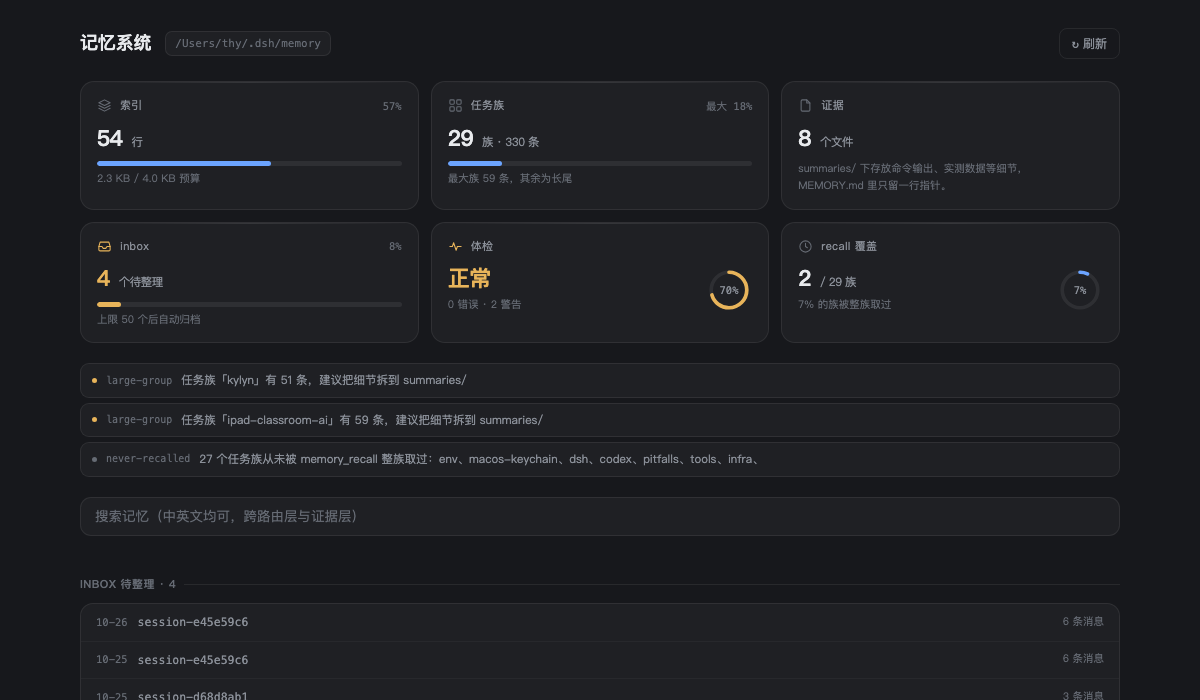
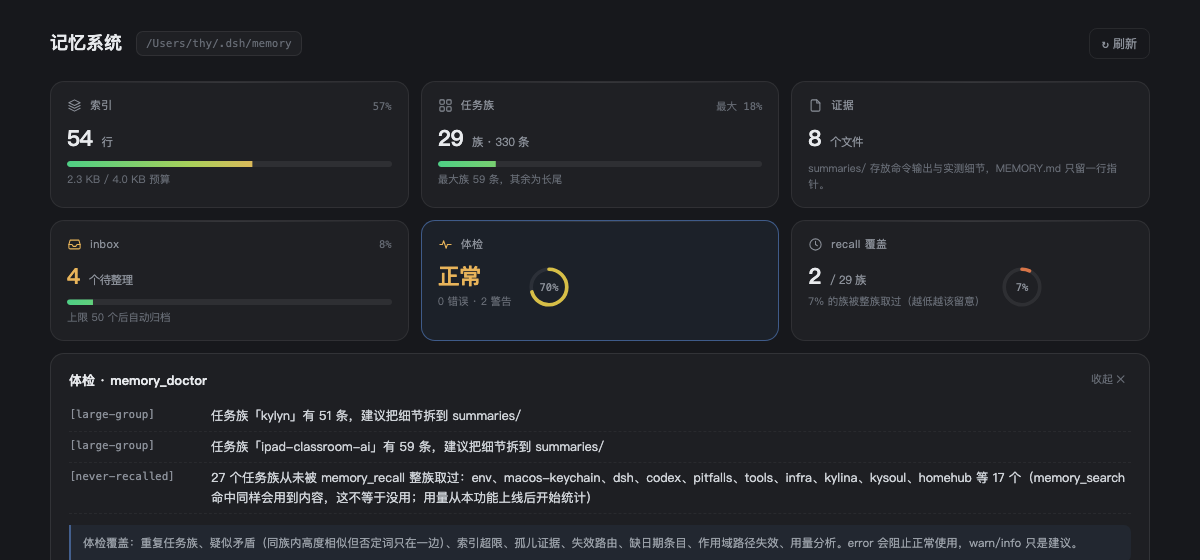
feat(v0.7.0): every stat card opens a detail panel
Each of the six cards is now clickable and expands a panel below the grid that
explains what the number means and what to do about it:
- index: budget math and what happens on overflow
- groups: top 10 by entry count, with the 50-entry split hint
- evidence: summaries/ file list with sizes
- inbox: candidate list and the review pipeline
- health: the full issue list (previously truncated to 6) plus check coverage
- recall: the never-recalled groups, why that is not the same as unused, and
  three concrete options
overview now also returns evidenceFiles, complete issues and usage.neverUsed.

diff --git a/lib/client.js b/lib/client.js
@@ -39,6 +39,19 @@ window.__ModuleLoader__.load({
       '.km-refresh{margin-left:auto;font-size:12px;color:#8b9099;border:1px solid rgba(255,255,255,.075);border-radius:8px;padding:5px 12px;cursor:pointer;user-select:none;}',
       '.km-refresh:hover{color:#e8eaed;border-color:rgba(255,255,255,.12);background:rgba(255,255,255,.035);}',
       '.km-cards{display:grid;grid-template-columns:repeat(3,minmax(0,1fr));gap:12px;margin-bottom:20px;}',
+      '.km-card.clickable{cursor:pointer;transition:border-color .15s,background .15s;}',
+      '.km-card.clickable:hover{border-color:rgba(255,255,255,.14);background:rgba(255,255,255,.055);}',
+      '.km-card.active{border-color:rgba(107,164,255,.45);background:rgba(107,164,255,.06);}',
+      '.km-detail{margin:-8px 0 20px;border:1px solid rgba(255,255,255,.09);border-radius:14px;background:rgba(255,255,255,.03);padding:15px 18px;}',
+      '.km-detail-head{display:flex;align-items:center;gap:8px;margin-bottom:10px;}',
+      '.km-detail-title{font-size:13px;font-weight:600;}',
+      '.km-detail-close{margin-left:auto;font-size:11px;color:#666b74;cursor:pointer;padding:2px 6px;border-radius:5px;}',
+      '.km-detail-close:hover{color:#e8eaed;background:rgba(255,255,255,.06);}',
+      '.km-d-row{display:flex;gap:12px;padding:5px 0;font-size:12.5px;border-bottom:1px dashed rgba(255,255,255,.05);}',
+      '.km-d-row:last-child{border-bottom:0;}',
+      '.km-d-key{font-family:ui-monospace,Menlo,monospace;font-size:11px;color:#8b9099;flex:none;min-width:130px;}',
+      '.km-d-val{color:#cfd3d8;flex:1;min-width:0;}',
+      '.km-d-note{font-size:11.5px;color:#9aa0a8;line-height:1.7;margin-top:11px;padding:9px 12px;background:rgba(107,164,255,.06);border-left:2px solid rgba(107,164,255,.45);border-radius:0 7px 7px 0;}',
       '.km-card{position:relative;background:rgba(255,255,255,.035);border:1px solid rgba(255,255,255,.075);border-radius:14px;padding:15px 16px 14px;overflow:hidden;}',
       '.km-card::after{content:"";position:absolute;inset:0 0 auto 0;height:1px;background:linear-gradient(90deg,transparent,rgba(255,255,255,.10),transparent);}',
       '.km-card-head{display:flex;align-items:center;gap:8px;margin-bottom:11px;}',
@@ -193,6 +206,8 @@ window.__ModuleLoader__.load({
       var detail = s5[0], setDetail = s5[1];
       var s6 = React.useState(0);
       var reloadAt = s6[0], setReloadAt = s6[1];
+      var s7 = React.useState(null);
+      var openCard = s7[0], setOpenCard = s7[1];
 
       React.useEffect(function () {
         var alive = true;
@@ -284,48 +299,47 @@ window.__ModuleLoader__.load({
       var recallPct = pctOf((data.usage && data.usage.used) || 0, (data.usage && data.usage.total) || 1);
       var healthPct = counts.error > 0 ? 30 : counts.warn > 0 ? 70 : 100;
 
+      function cardWrap(key, className, children) {
+        var active = openCard === key;
+        return h(
+          'div',
+          {
+            className: 'km-card clickable ' + (className || '') + (active ? ' active' : ''),
+            onClick: function () {
+              setOpenCard(active ? null : key);
+            },
+          },
+          children,
+        );
+      }
+
       var cards = h(
         'div',
         { className: 'km-cards' },
-        // 索引：进度条
-        h(
-          'div',
-          { className: 'km-card' },
+        cardWrap('index', '', [
           head('layers', '索引', indexPct.toFixed(0) + '%'),
           h('div', { className: 'km-card-value' }, data.index.lines, h('em', null, '行')),
           bar(indexPct),
           h('div', { className: 'km-card-label' }, kb(data.index.bytes) + ' / ' + kb(data.limits.maxIndexBytes) + ' 预算'),
-        ),
-        // 任务族：最大族占比条
-        h(
-          'div',
-          { className: 'km-card' },
+        ]),
+        cardWrap('groups', '', [
           head('grid', '任务族', '最大 ' + maxPct.toFixed(0) + '%'),
           h('div', { className: 'km-card-value' }, data.route.groups, h('em', null, '族 · ' + data.route.entries + ' 条')),
           bar(maxPct),
           h('div', { className: 'km-card-label' }, '最大族 ' + maxEntries + ' 条，其余为长尾'),
-        ),
-        // 证据：纯计数 + 说明
-        h(
-          'div',
-          { className: 'km-card' },
+        ]),
+        cardWrap('evidence', '', [
           head('file', '证据'),
           h('div', { className: 'km-card-value' }, data.evidence, h('em', null, '个文件')),
           h('div', { className: 'km-card-label', style: { marginTop: '10px' } }, 'summaries/ 存放命令输出与实测细节，MEMORY.md 只留一行指针。'),
-        ),
-        // inbox：进度条（上限 50）
-        h(
-          'div',
-          { className: 'km-card ' + (inbox.length > 0 ? 'warn' : '') },
+        ]),
+        cardWrap('inbox', inbox.length > 0 ? 'warn' : '', [
           head('inbox', 'inbox', inboxPct.toFixed(0) + '%'),
           h('div', { className: 'km-card-value' }, inbox.length, h('em', null, '个待整理')),
           bar(inboxPct),
           h('div', { className: 'km-card-label' }, '上限 50 个后自动归档'),
-        ),
-        // 体检：圆环
-        h(
-          'div',
-          { className: 'km-card ' + health },
+        ]),
+        cardWrap('health', health, [
           head('pulse', '体检'),
           h(
             'div',
@@ -338,11 +352,8 @@ window.__ModuleLoader__.load({
             ),
             ring(healthPct, healthPct.toFixed(0) + '%'),
           ),
-        ),
-        // recall 覆盖：圆环
-        h(
-          'div',
-          { className: 'km-card' },
+        ]),
+        cardWrap('recall', '', [
           head('activity', 'recall 覆盖'),
           h(
             'div',
@@ -360,8 +371,111 @@ window.__ModuleLoader__.load({
             ),
             ring(recallPct, recallPct.toFixed(0) + '%', true),
           ),
-        ),
+        ]),
       );
+
+      // ── 卡片详情：点开看「是什么、为什么、怎么办」────────────────────
+      var CARD_TITLES = {
+        index: '索引层 · memory_summary.md',
+        groups: '任务族 · MEMORY.md',
+        evidence: '证据层 · summaries/',
+        inbox: 'inbox · 自动捕获的候选',
+        health: '体检 · memory_doctor',
+        recall: 'recall 覆盖 · usage.json',
+      };
+      function detailRows(key) {
+        var rows = [];
+        var note = '';
+        if (key === 'index') {
+          var remain = Math.max(0, data.limits.maxIndexBytes - data.index.bytes);
+          rows = [
+            ['行数', data.index.lines + ' 行'],
+            ['当前占用', kb(data.index.bytes)],
+            ['预算上限', kb(data.limits.maxIndexBytes) + '（超出会被截断）'],
+            ['剩余空间', kb(remain)],
+          ];
+          note = '索引是每次会话都注入模型上下文的那段文字，所以它的每一字节都是「每轮成本」。写满了就该把细节下沉到 MEMORY.md 或 summaries/。';
+        } else if (key === 'groups') {
+          var sorted = (data.groups || []).slice().sort(function (a, b) {
+            return b.entries - a.entries;
+          });
+          rows = sorted.slice(0, 10).map(function (g) {
+            var scope = g.scope ? '  @' + String(g.scope).split('/').pop() : '';
+            return [g.slug, g.entries + ' 条' + scope];
+          });
+          if (sorted.length > 10) rows.push(['…', '另有 ' + (sorted.length - 10) + ' 个更小的族']);
+          note = '按条目数排序的前 10 个族。单族超过 50 条时体检会提示拆分——把细节挪到 summaries/，MEMORY.md 里只留一行指针。';
+        } else if (key === 'evidence') {
+          var files = data.evidenceFiles || [];
+          rows = files.length
+            ? files.map(function (f) {
+                return [f.name, kb(f.bytes)];
+              })
+            : [['—', '还没有证据文件']];
+          note = '证据层存原始材料：命令输出、实测数据、复现步骤。MEMORY.md 的条目用一行指针指过来，需要时才读。';
+        } else if (key === 'inbox') {
+          var items = data.inbox || [];
+          rows = items.length
+            ? items.map(function (it) {
+                var m = /^(\d{4}-\d{2}-\d{2})-(.+)\.md$/.exec(it.name || '');
+                var meta = it.meta || {};
+                return [m ? m[1] : it.name || '', 'session-' + (m ? m[2].replace(/^session-/, '').slice(0, 8) : '') + ' · ' + (meta.messages || 0) + ' 条消息'];
+              })
+            : [['—', '队列是空的，暂时没有要整理的']];
+          note = '这些是自动捕获的候选素材，还没进正式记忆。让本鲸用 memory_inbox 读出来、提炼后 memory_save 入库，再 memory_promote 归档。超过 30 天未处理会自动归档。';
+        } else if (key === 'health') {
+          var iss = data.doctor.issues || [];
+          rows = iss.length
+            ? iss.map(function (i) {
+                return ['[' + i.code + ']', i.message];
+              })
+            : [['—', '所有检查项都通过了']];
+          note = '体检覆盖：重复任务族、疑似矛盾（同族内高度相似但否定词只在一边）、索引超限、孤儿证据、失效路由、缺日期条目、作用域路径失效、用量分析。error 会阻止正常使用，warn/info 只是建议。';
+        } else if (key === 'recall') {
+          var never = (data.usage && data.usage.neverUsed) || [];
+          rows = never.length
+            ? never.slice(0, 18).map(function (s) {
+                return [s, '从未被整族取过'];
+              })
+            : [['—', '所有任务族都至少被取用过一次']];
+          if (never.length > 18) rows.push(['…', '另有 ' + (never.length - 18) + ' 个']);
+          note = '注意：这不等于没用——memory_search 命中同样会用到内容，只是不计入本统计。如果确实长期不用，可以：① 用 memory_archive 归档；② 让本鲸下次相关任务时主动 recall；③ 关掉自动捕获减少新的无主积累。';
+        }
+        return { rows: rows, note: note };
+      }
+      var detail = null;
+      if (openCard) {
+        var d = detailRows(openCard);
+        detail = h(
+          'div',
+          { className: 'km-detail' },
+          h(
+            'div',
+            { className: 'km-detail-head' },
+            h('span', { className: 'km-detail-title' }, CARD_TITLES[openCard] || ''),
+            h(
+              'span',
+              {
+                className: 'km-detail-close',
+                onClick: function (e) {
+                  e.stopPropagation();
+                  setOpenCard(null);
+                },
+              },
+              '收起 ✕',
+            ),
+          ),
+          d.rows.map(function (r, i) {
+            return h(
+              'div',
+              { className: 'km-d-row', key: 'dr-' + i },
+              h('span', { className: 'km-d-key' }, r[0]),
+              h('span', { className: 'km-d-val' }, r[1]),
+            );
+          }),
+          d.note ? h('div', { className: 'km-d-note' }, d.note) : null,
+        );
+      }
 
       var issues = (doctor.issues || []).slice(0, 6).map(function (issue, i) {
         return h(
@@ -495,6 +609,7 @@ window.__ModuleLoader__.load({
           ),
         ),
         cards,
+        detail,
         issues.length ? h('ul', { className: 'km-issues' }, issues) : null,
         h('div', { className: 'km-search-wrap' },
           h('input', {

diff --git a/lib/index.js b/lib/index.js
@@ -1,4 +1,4 @@
-import { readFileSync } from 'node:fs'
+import { readdirSync, readFileSync, statSync } from 'node:fs'
 
 import { normalizeConfig } from './config.js'
 import { captureSession, writeInbox } from './capture.js'
@@ -10,6 +10,25 @@ export const name = 'dsh-kymemory'
 /** `tools` is required to register the memory tools; `sessions` carries the lifecycle events. */
 export const inject = ['tools', 'sessions', 'webServer']
 
+
+
+/** 列出 summaries/ 下的证据文件（名字 + 字节数），供面板详情展示。 */
+function listEvidence(root) {
+  try {
+    return readdirSync(`${root}/summaries`)
+      .filter((name) => name.endsWith('.md'))
+      .map((name) => {
+        try {
+          return { name, bytes: statSync(`${root}/summaries/${name}`).size }
+        } catch {
+          return { name, bytes: 0 }
+        }
+      })
+      .sort((a, b) => a.name.localeCompare(b.name))
+  } catch {
+    return []
+  }
+}
 
 /**
  * 只读 HTTP API，供客户端面板取数。
@@ -55,9 +74,15 @@ function registerPanelApi(webServer, store) {
             doctor: {
               ok: doctor.ok,
               counts: doctor.counts,
-              issues: doctor.issues.slice(0, 10),
+              issues: doctor.issues,
             },
-            usage: { used: usage.rows.length, total: usage.totalGroups },
+            usage: {
+              used: usage.rows.length,
+              total: usage.totalGroups,
+              neverUsed: usage.neverUsed,
+              top: usage.rows.slice(0, 10),
+            },
+            evidenceFiles: listEvidence(store.root),
           })
         } catch (error) {
           replyJson(res, { ok: false, error: String(error?.message ?? error) }, 500)

diff --git a/CHANGELOG.md b/CHANGELOG.md
@@ -4,6 +4,19 @@ All notable changes to this project are documented here.
 The format follows [Keep a Changelog](https://keepachangelog.com/en/1.1.0/),
 and this project adheres to [Semantic Versioning](https://semver.org/spec/v2.0.0.html).
 
+## [0.7.0] — 2026-10-26
+
+### Added
+
+- **六张状态卡片全部可点开**，点开后在下方展开详情面板，讲清「是什么 / 为什么 / 怎么办」：
+  - **索引** → 行数、当前占用、预算上限、剩余空间，并说明超限会被截断
+  - **任务族** → 按条目数排序的前 10 族（带作用域），提示单族超 50 条该拆分
+  - **证据** → summaries/ 下的文件清单与大小
+  - **inbox** → 候选清单（日期 + 会话 + 消息数）与处理流程
+  - **体检** → 完整 issue 列表（此前只显示前 6 条）与检查项说明
+  - **recall** → 从未被整族取过的族清单，以及「这不等于没用」的解释与三条改进路径
+- `overview` 接口补充 `evidenceFiles`、完整的 `doctor.issues` 与 `usage.neverUsed`。
+
 ## [0.6.3] — 2026-10-26
 
 ### Changed
